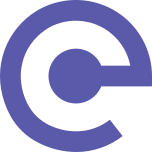
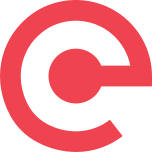
New colors

diff --git a/assets/css/_variables.scss b/assets/css/_variables.scss
@@ -5,15 +5,14 @@
 //
 
 $gray-100: #f9f9fa;
-$purple: #5a59aa;
 $green: #5baa59;
 $yellow: #eebc5a;
 $red: #c74444;
 
-$primary: $purple;
+$primary: #f04350;
 $secondary: #f9f9fa;
 $success: $green;
-$info: #9591f0;
+$info: #457b9d;
 $warning: $yellow;
 $danger: $red;
 $light: $gray-100;
@@ -27,16 +26,10 @@ $border-radius-sm: .85rem;
 
 // Custom color
 
-$complementary: #f48c06;
-$complementary-light: #ffd7bf;
-$primary-dark: #494885;
-$success-dark: #3a8538;
+$complementary: #457b9d;
 
 $theme-colors: (
   "complementary": $complementary,
-  "complementary-light": $complementary-light,
-  "primary-dark": $primary-dark,
-  "success-dark": $success-dark,
 );
 
 // Fonts
@@ -44,11 +37,3 @@ $theme-colors: (
 $font-family-sans-serif: "Mulish", -apple-system, BlinkMacSystemFont, "Segoe UI", Roboto, "Helvetica Neue", Arial, sans-serif;
 $web-font-path: '';
 $enable-responsive-font-sizes: true;
-
-// Popovers
-
-$popover-border-width:  4px;
-$popover-box-shadow:    none;
-$popover-border-radius: 20px;
-$popover-max-width:     326px;
-$popover-font-size:     $font-size-base;
